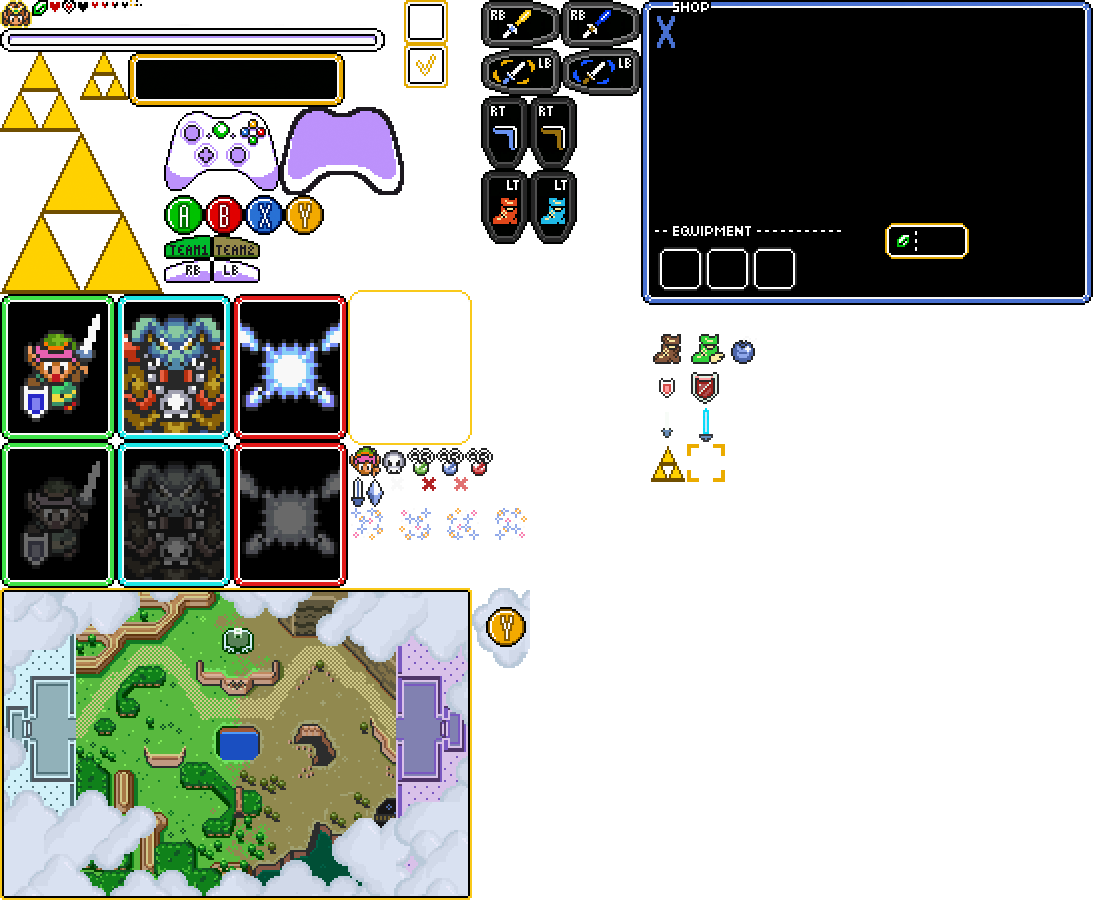
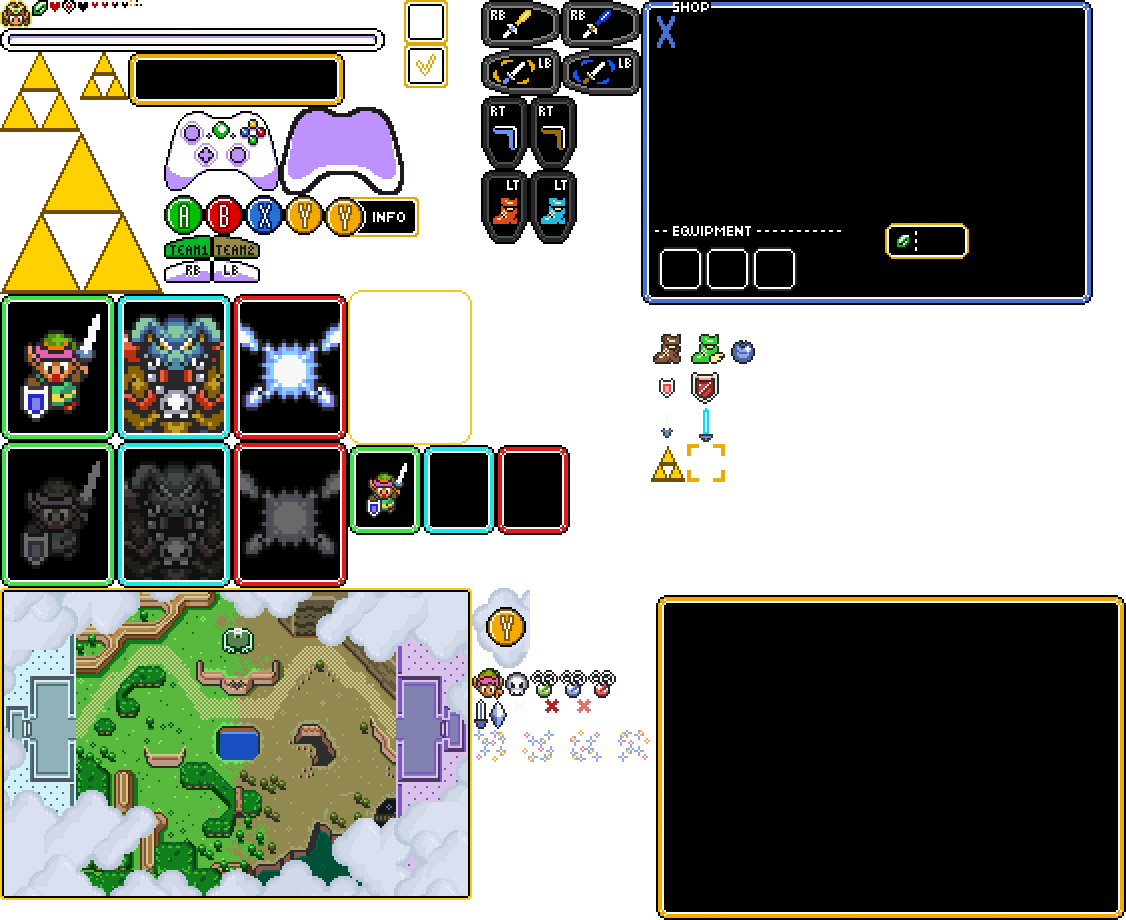
Character selection sprites fix

diff --git a/Motor2D/CharacterSelectionScene.cpp b/Motor2D/CharacterSelectionScene.cpp
@@ -292,7 +292,7 @@ void CharacterSelectionScene::CreateScene(uint w, uint h)
 	positions.push_back(iPoint(w / 2 + (w / 4 - 120), 220));
 
 	positions.push_back(iPoint(w / 2 + positions[6].x + 90, positions[6].y + 10));
-	positions.push_back(iPoint(w / 2 + 550, 300));
+	positions.push_back(iPoint(w / 2 + 520, 300));
 	positions.push_back(iPoint(w / 2 + 30, 30));
 	positions.push_back(iPoint(w / 2 + positions[10].x, positions[10].y));
 
@@ -330,7 +330,7 @@ void CharacterSelectionScene::CreateScene(uint w, uint h)
 	positions.push_back(iPoint(w / 2 + (w / 4 - 120), h / 2 + 220));
 
 	positions.push_back(iPoint(w / 2 + positions[6].x + 90, h / 2 + positions[6].y + 10));
-	positions.push_back(iPoint(w / 2 + 550, h / 2 + 300));
+	positions.push_back(iPoint(w / 2 + 520, h / 2 + 300));
 	positions.push_back(iPoint(w / 2 + 30, h / 2 + 30));
 	positions.push_back(iPoint(w / 2 + positions[10].x, h / 2 + positions[10].y));
 
@@ -341,14 +341,14 @@ void CharacterSelectionScene::CreateScene(uint w, uint h)
 	backgrounds_rects[0] = SDL_Rect{ 410, 26, 108, 137 };
 	backgrounds_rects[1] = SDL_Rect{ 549, 4, 135, 179 };
 
-	ganon_rects[1] = SDL_Rect{ 714, 18, 98, 128 };
-	ganon_rects[0] = SDL_Rect{ 733, 170, 55, 75 };
+	ganon_rects[1] = SDL_Rect{ 116, 294, 116, 147 };
+	ganon_rects[0] = SDL_Rect{ 536, 445, 94, 90 };
 
-	navi_rects[1] = SDL_Rect{ 836, 19, 97, 125 };
-	navi_rects[0] = SDL_Rect{ 860, 168, 55, 80 };
+	navi_rects[1] = SDL_Rect{ 232, 294, 116, 147 };
+	navi_rects[0] = SDL_Rect{ 442, 445, 94, 90 };
 
-	link_rects[1] = SDL_Rect{ 972, 20, 97, 125 };
-	link_rects[0] = SDL_Rect{ 996, 169, 55, 80 };
+	link_rects[1] = SDL_Rect{ 0, 294, 116, 147 };
+	link_rects[0] = SDL_Rect{348, 445, 94, 90 };
 
 	player_ready[0] = false; 
 	player_ready[1] = false;
@@ -373,10 +373,10 @@ void CharacterSelectionScene::CreateScene(uint w, uint h)
 		viewport[i].name = window->CreateText(positions[pos_count++], App->font->game_font, 0, false, 255, 255, 255);
 
 		//Setting info button
-		viewport[i].info_button = window->CreateImage(positions[pos_count++], {284, 195, 40, 40}, false);
+		viewport[i].info_button = window->CreateImage(positions[pos_count++], {324, 195, 95, 42}, false);
 
 		// Setting info of the characters
-		viewport[i].info_back = window->CreateImage(positions[pos_count++], { 10, 295, 484, 327 }, false);
+		viewport[i].info_back = window->CreateImage(positions[pos_count++], { 656, 595, 470, 325 }, false);
 		viewport[i].info_back->enabled = false; 
 
 		// Setting ready text
